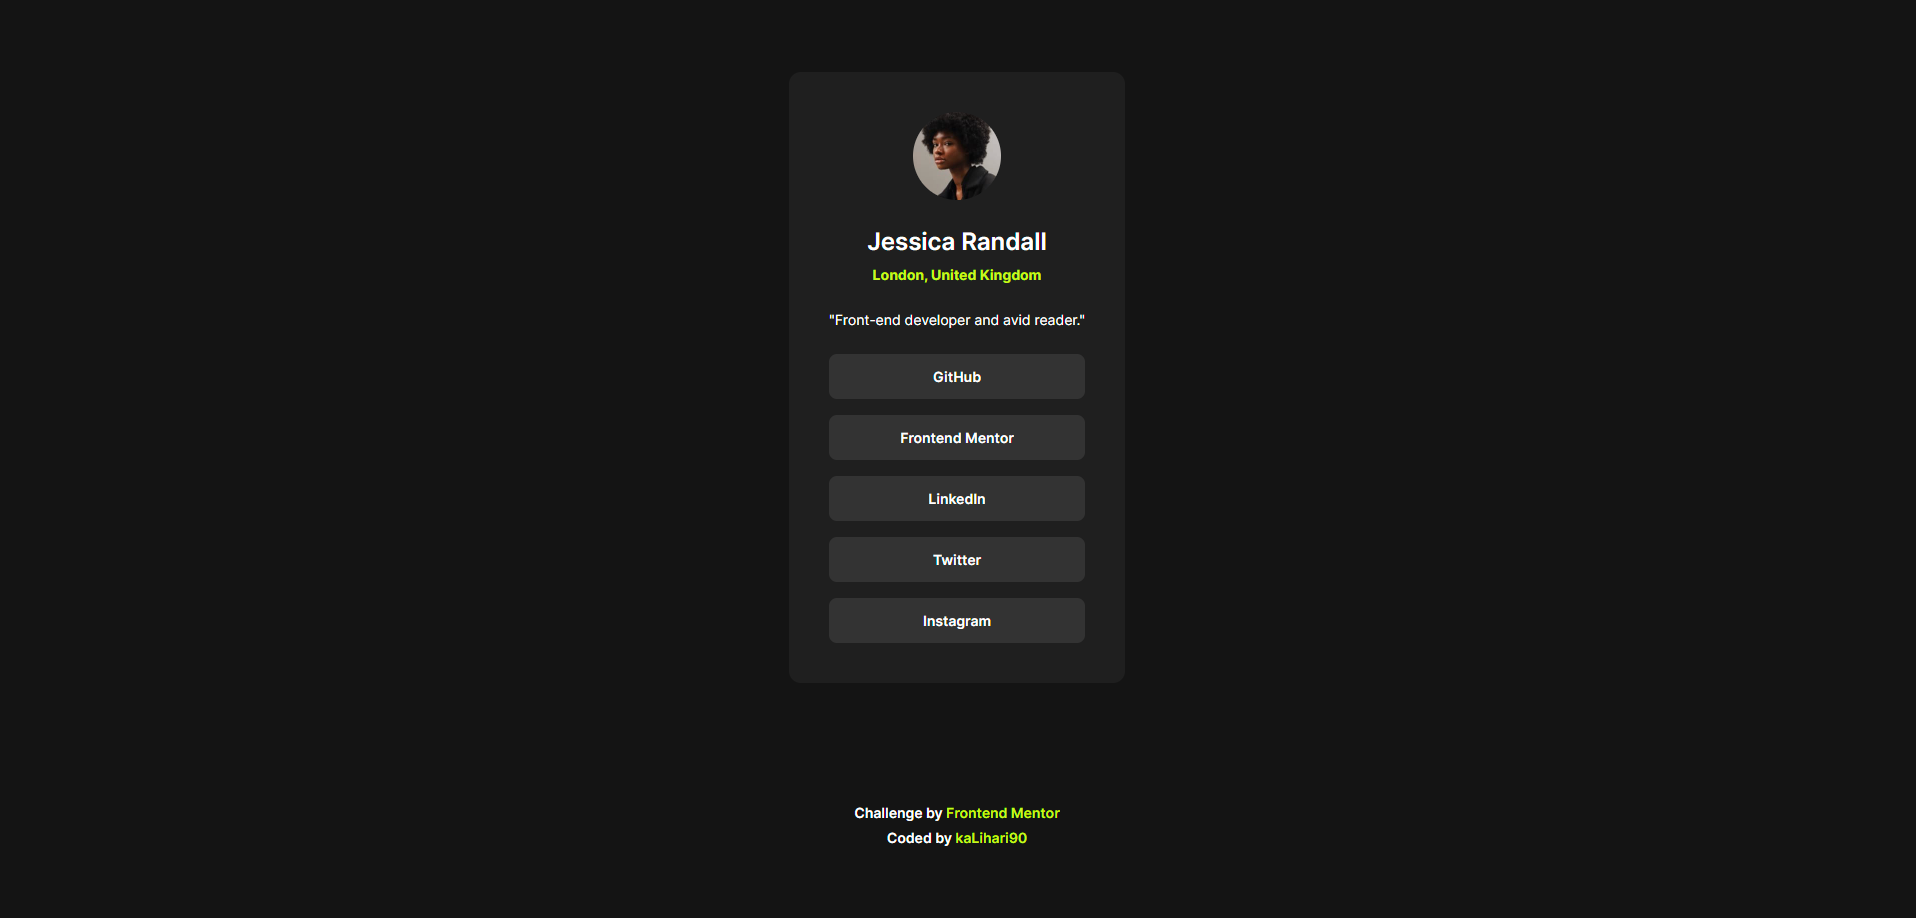
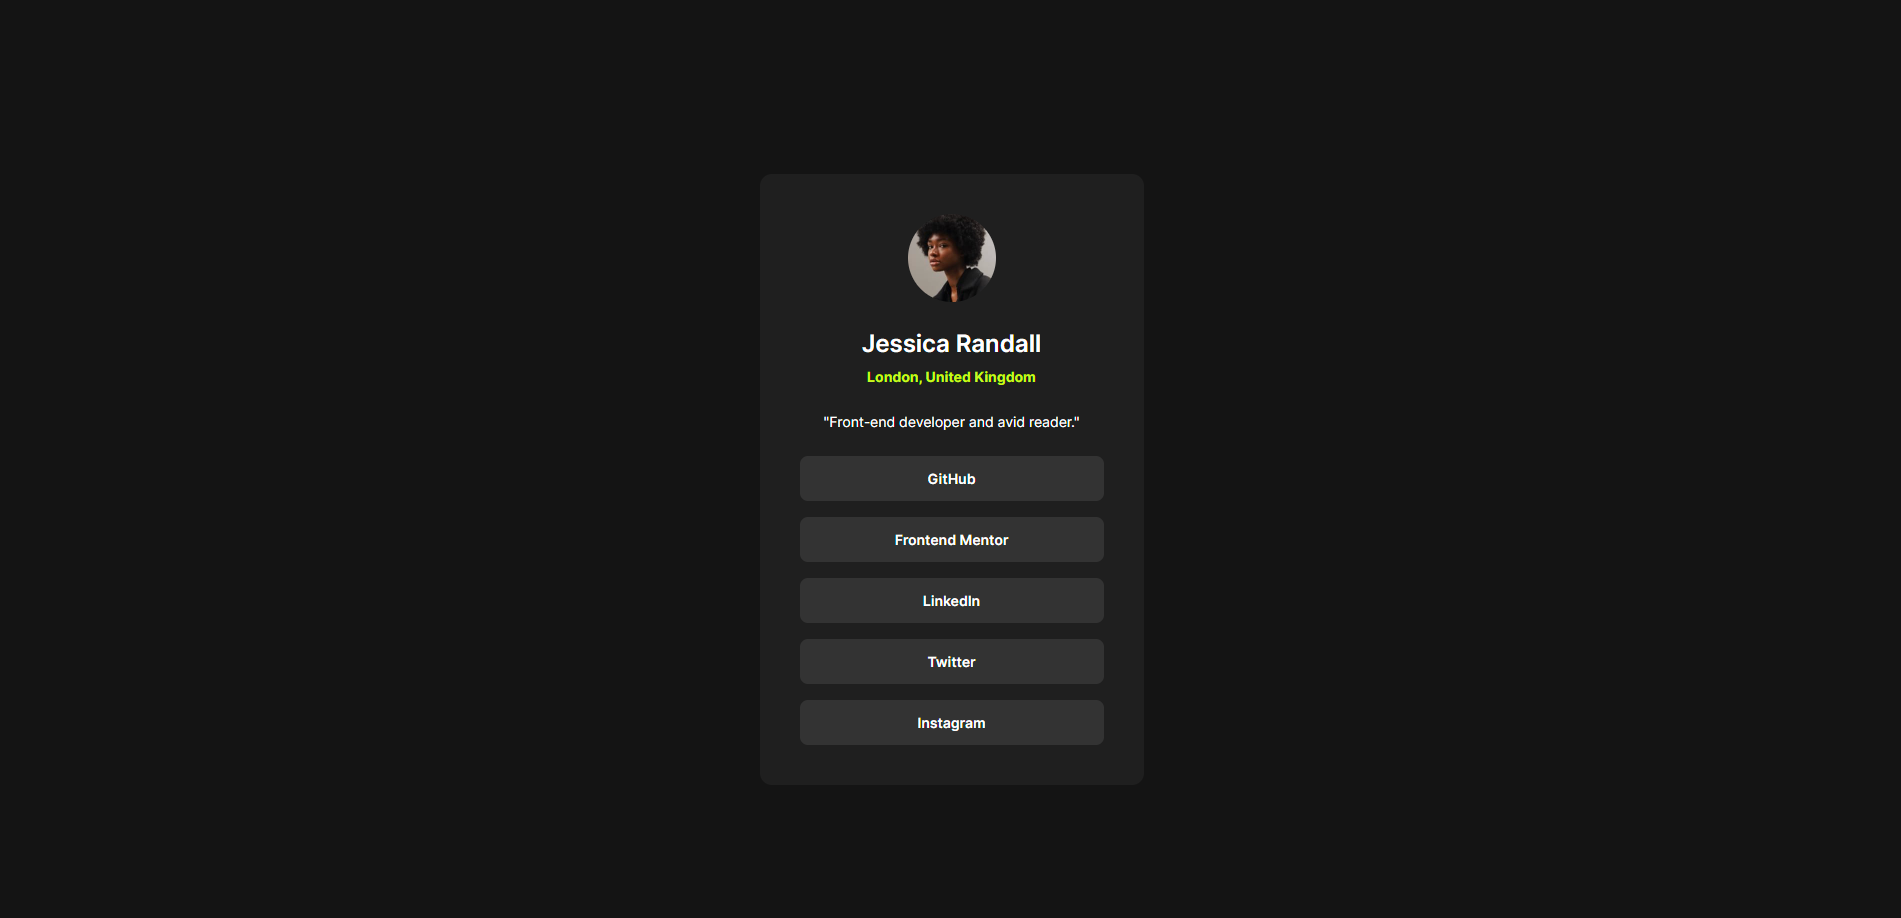
final update

diff --git a/css/style.css b/css/style.css
@@ -34,11 +34,6 @@ body {
 	font-weight: var(--fw-normal);
 	line-height: var(--lh-normal);
 	background-color: var(--black);
-	min-height: 100vh;
-	display: flex;
-	flex-direction: column;
-	justify-content: space-around;
-	gap: 2.4rem;
 }
 
 .container {
@@ -51,8 +46,8 @@ body {
 	flex-direction: column;
 	gap: 2.4rem;
 	padding: 4rem;
-	/* margin-top: 17.4rem; */
-	margin-top: 2.4rem;
+	/* MARGIN-TOP BECAUSE I DON'T WANT TO PUT DISPLAY FLEX ON THE BODY  */
+	margin-top: 17.4rem;
 	border-radius: 1.2rem;
 	text-align: center;
 	color: var(--white);
@@ -115,7 +110,8 @@ h1 {
 .attribution {
 	font-size: var(--fs-normal);
 	color: var(--white);
-	/* margin-top: 17.5rem; */
+	/* MARGIN-TOP BECAUSE I DON'T WANT TO PUT DISPLAY FLEX ON THE BODY  */
+	margin-top: 17.5rem;
 	margin-bottom: 2.4rem;
 	text-align: center;
 	display: flex;
